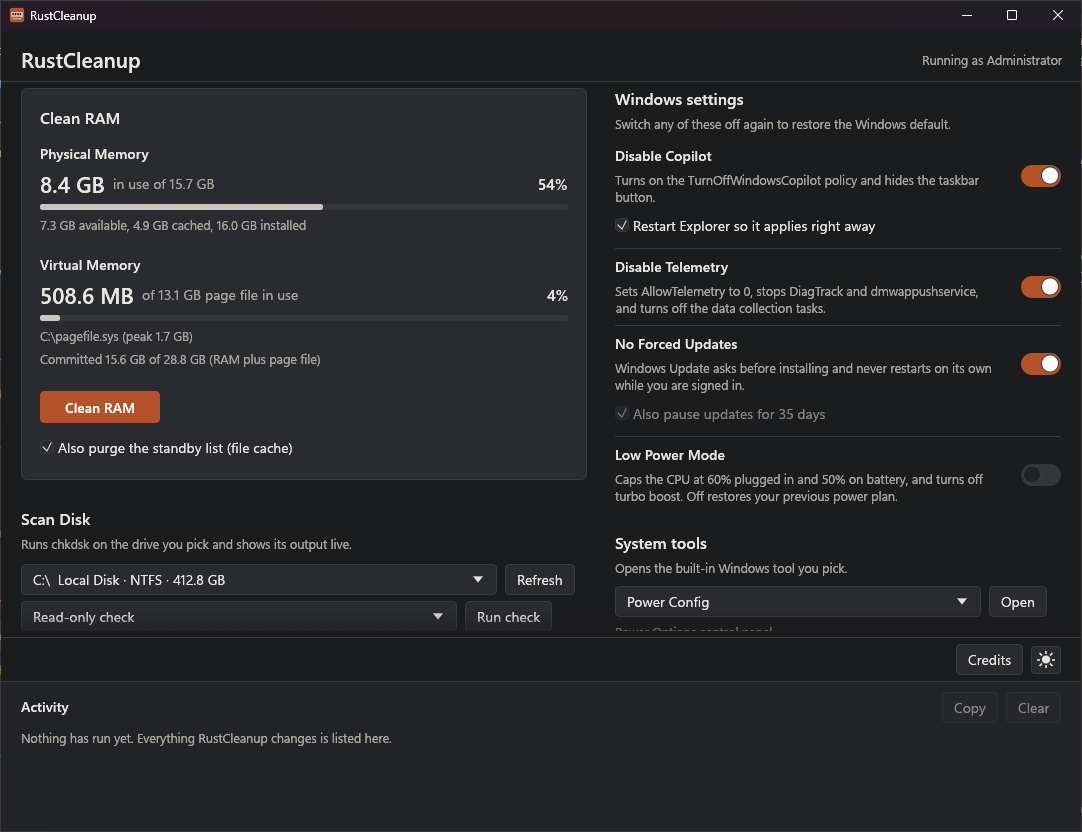
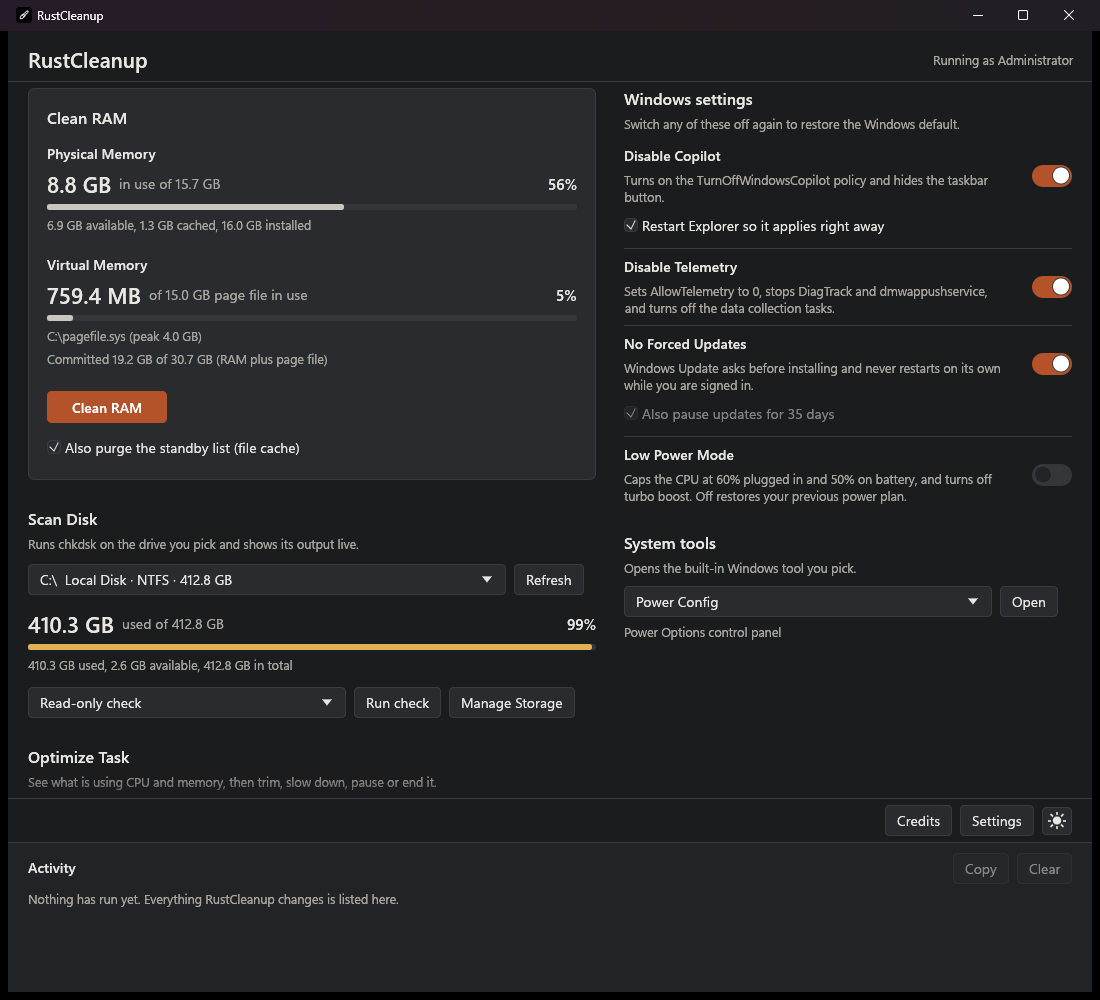
Admin-tested screenshot, accept chkdsk exit 3 in the admin test
All seven admin tests pass elevated on 2.0.1. The chkdsk test failed only
because the test drive really has errors, and read-only chkdsk exits 3
then. The app reported it correctly, so the exe is unchanged.

diff --git a/src/sys/admin_tests.rs b/src/sys/admin_tests.rs
@@ -158,5 +158,6 @@ fn read_only_chkdsk_on_system_drive() {
         started.elapsed().as_secs()
     );
     assert!(lines > 0);
-    assert!((0..=2).contains(&code), "chkdsk exit {code}");
+    // 3 is a real result on a drive with errors: read-only mode stops there.
+    assert!((0..=3).contains(&code), "chkdsk exit {code}");
 }

diff --git a/README.md b/README.md
@@ -5,7 +5,7 @@ It ships as one portable `RustCleanup.exe` with nothing to install, in 12 langua
 
 **[Download the latest release](https://github.com/RealAnxiousGit/RustCleanup/releases/latest)**
 
-![RustCleanup 2.0 main window in dark mode, showing Physical and Virtual Memory, Scan Disk, the Windows settings switches and System tools](docs/screenshot.png)
+![RustCleanup 2.0.1 main window in dark mode, showing Physical and Virtual Memory, Scan Disk with storage figures and Manage Storage, the Windows settings switches and System tools](docs/screenshot.png)
 
 > RustCleanup changes system settings (registry policies, services, power plans).
 > Every switch can be turned off again to restore the Windows default, but it's still a
